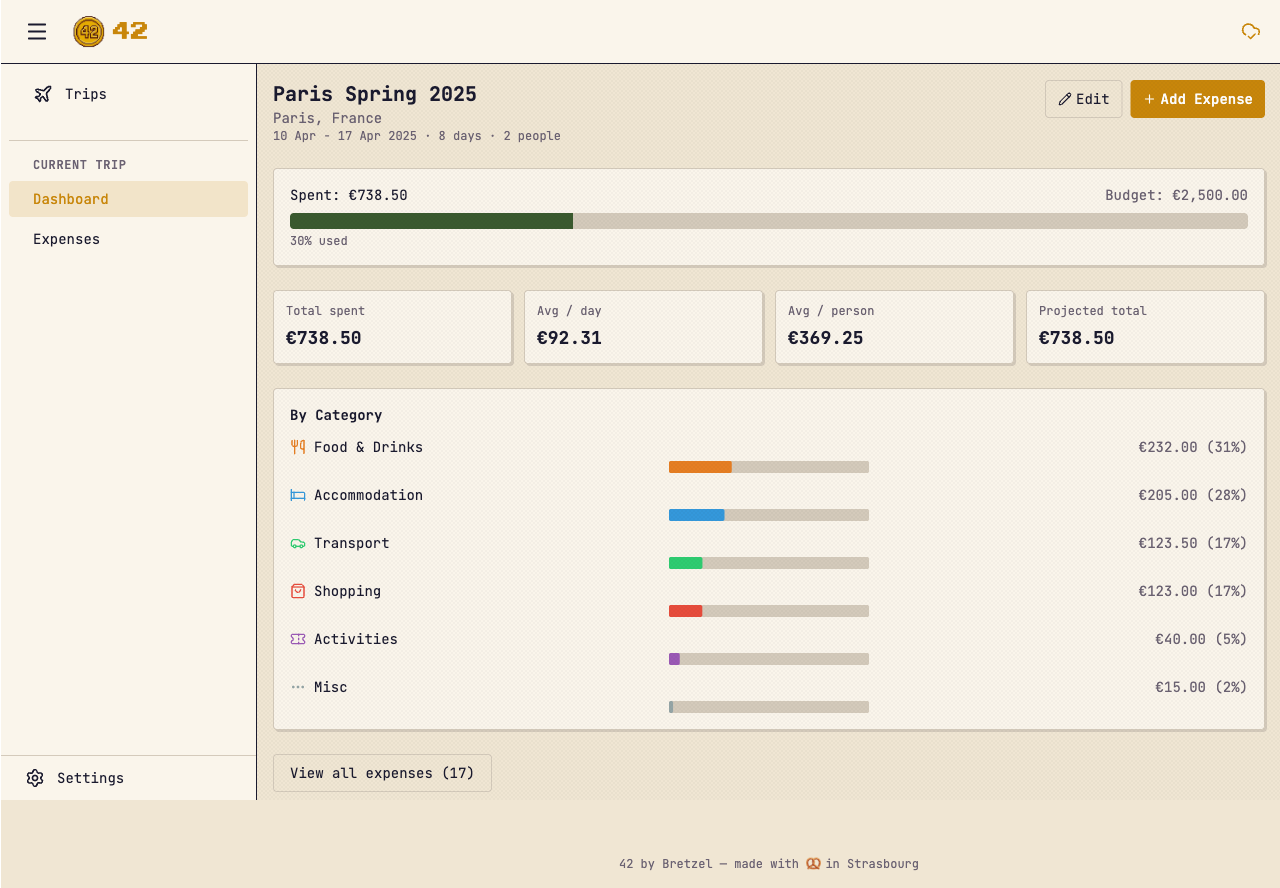
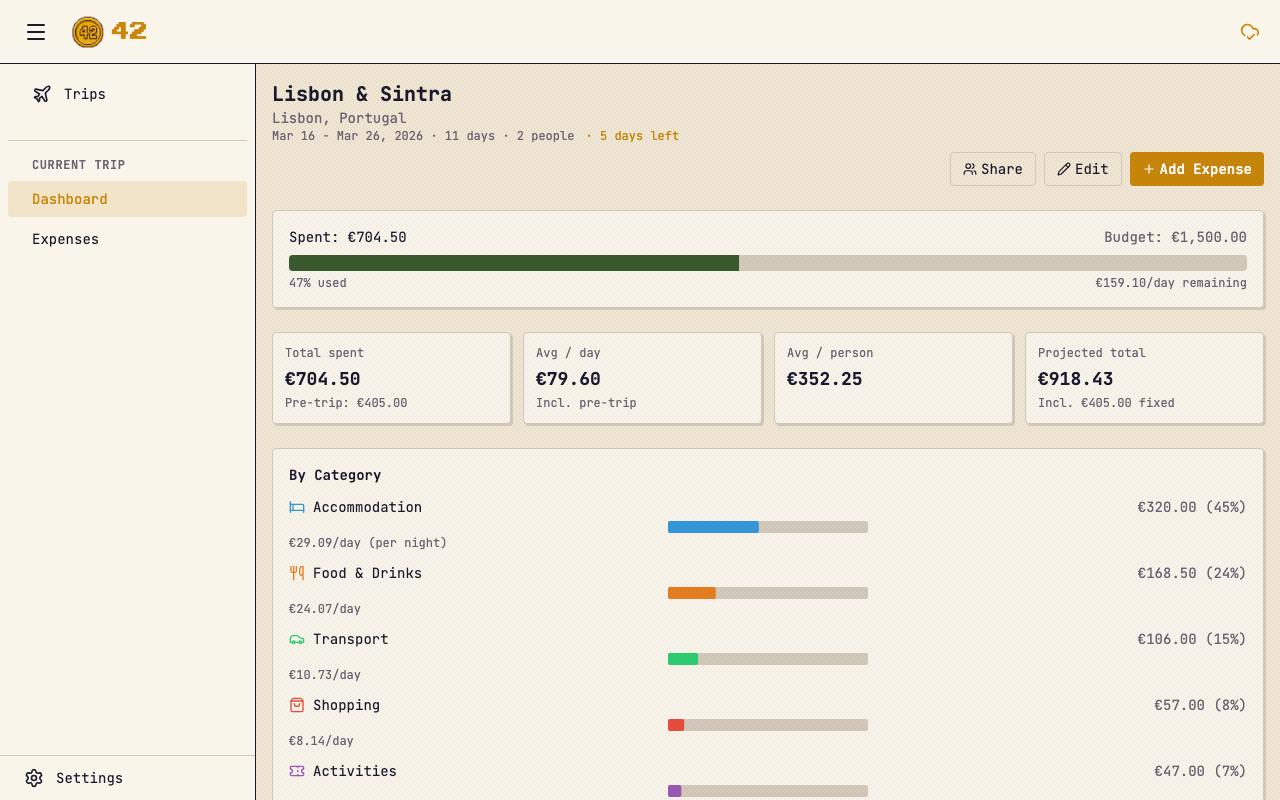
feat: automate landing page screenshot generation
Add Playwright-based screenshot automation that seeds demo trip data
(Lisbon & Sintra ongoing trip, Tokyo future trip, Amsterdam past trip)
and captures 6 screenshots (3 desktop + 3 mobile).

Includes workflow_dispatch GitHub Actions workflow for one-click
regeneration.

diff --git a/scripts/screenshots/seed.ts b/scripts/screenshots/seed.ts
@@ -1,0 +1,143 @@
+import type { Page } from '@playwright/test';
+import { BASE_URL, ADMIN } from './constants';
+
+type HttpMethod = 'post' | 'put' | 'get' | 'delete';
+
+async function api(page: Page, method: HttpMethod, path: string, data?: unknown) {
+	const res = await page.request[method](
+		`${BASE_URL}${path}`,
+		data !== undefined ? { data } : undefined
+	);
+	if (!res.ok()) {
+		throw new Error(`${method.toUpperCase()} ${path} failed: ${res.status()} ${await res.text()}`);
+	}
+	const text = await res.text();
+	return text ? JSON.parse(text) : {};
+}
+
+/** Convert euros to cents */
+function eur(amount: number): number {
+	return Math.round(amount * 100);
+}
+
+export async function seed(page: Page): Promise<{ mainTripId: string }> {
+	// 1. Setup admin
+	await api(page, 'post', '/api/auth/setup', {
+		email: ADMIN.email,
+		displayName: ADMIN.displayName,
+		password: ADMIN.password
+	});
+	console.log('  admin created');
+
+	// 2. Create trips
+	// Trip dates designed so "Lisbon" is ongoing with good dashboard data
+	const today = new Date();
+	const startedDaysAgo = 5;
+	const tripDuration = 10;
+	const lisbonStart = new Date(today);
+	lisbonStart.setDate(today.getDate() - startedDaysAgo);
+	const lisbonEnd = new Date(lisbonStart);
+	lisbonEnd.setDate(lisbonStart.getDate() + tripDuration);
+
+	const tokyoStart = new Date(today);
+	tokyoStart.setDate(today.getDate() + 30);
+	const tokyoEnd = new Date(tokyoStart);
+	tokyoEnd.setDate(tokyoStart.getDate() + 14);
+
+	const fmt = (d: Date) => d.toISOString().split('T')[0];
+
+	// Completed trip (simple, no budget)
+	await api(page, 'post', '/api/trips', {
+		name: 'Amsterdam Weekend',
+		destination: 'Amsterdam, Netherlands',
+		startDate: '2025-11-15',
+		endDate: '2025-11-18',
+		numberOfPeople: 2,
+		totalBudget: null,
+		homeCurrency: 'EUR'
+	});
+	console.log('  trip created: Amsterdam Weekend');
+
+	// Future trip
+	const tokyo = await api(page, 'post', '/api/trips', {
+		name: 'Tokyo Adventure',
+		destination: 'Tokyo, Japan',
+		startDate: fmt(tokyoStart),
+		endDate: fmt(tokyoEnd),
+		numberOfPeople: 2,
+		totalBudget: eur(4000),
+		homeCurrency: 'EUR'
+	});
+	console.log('  trip created: Tokyo Adventure');
+
+	// Main trip (ongoing, with budget) — this is the dashboard hero
+	const lisbon = await api(page, 'post', '/api/trips', {
+		name: 'Lisbon & Sintra',
+		destination: 'Lisbon, Portugal',
+		startDate: fmt(lisbonStart),
+		endDate: fmt(lisbonEnd),
+		numberOfPeople: 2,
+		totalBudget: eur(1500),
+		homeCurrency: 'EUR'
+	});
+	console.log('  trip created: Lisbon & Sintra');
+
+	// 3. Set exchange rates for Tokyo trip (JPY)
+	await api(page, 'put', `/api/trips/${tokyo.id}/currencies`, [
+		{ currencyCode: 'JPY', exchangeRate: '0.006' }
+	]);
+
+	// 4. Add expenses to Lisbon trip (main dashboard)
+	const lisbonExpenses = [
+		// Pre-trip booking
+		{ amount: eur(85), currency: 'EUR', exchangeRate: '1', categoryId: 'transport', date: fmt(new Date(lisbonStart.getTime() - 14 * 86400000)), note: 'Ryanair flights' },
+		{ amount: eur(320), currency: 'EUR', exchangeRate: '1', categoryId: 'accommodation', date: fmt(new Date(lisbonStart.getTime() - 7 * 86400000)), note: 'Airbnb Alfama 10 nights' },
+		// Day 1
+		{ amount: eur(12.5), currency: 'EUR', exchangeRate: '1', categoryId: 'food', date: fmt(lisbonStart), note: 'Pastéis de Belém' },
+		{ amount: eur(28), currency: 'EUR', exchangeRate: '1', categoryId: 'food', date: fmt(lisbonStart), note: 'Dinner at Time Out Market' },
+		{ amount: eur(7), currency: 'EUR', exchangeRate: '1', categoryId: 'transport', date: fmt(lisbonStart), note: 'Tram 28 day pass' },
+		// Day 2
+		{ amount: eur(15), currency: 'EUR', exchangeRate: '1', categoryId: 'activities', date: fmt(new Date(lisbonStart.getTime() + 86400000)), note: 'Jerónimos Monastery' },
+		{ amount: eur(35), currency: 'EUR', exchangeRate: '1', categoryId: 'food', date: fmt(new Date(lisbonStart.getTime() + 86400000)), note: 'Seafood lunch Cervejaria Ramiro' },
+		{ amount: eur(22), currency: 'EUR', exchangeRate: '1', categoryId: 'shopping', date: fmt(new Date(lisbonStart.getTime() + 86400000)), note: 'Azulejo tiles souvenir' },
+		// Day 3
+		{ amount: eur(14), currency: 'EUR', exchangeRate: '1', categoryId: 'transport', date: fmt(new Date(lisbonStart.getTime() + 2 * 86400000)), note: 'Train to Sintra' },
+		{ amount: eur(20), currency: 'EUR', exchangeRate: '1', categoryId: 'activities', date: fmt(new Date(lisbonStart.getTime() + 2 * 86400000)), note: 'Pena Palace ticket' },
+		{ amount: eur(18), currency: 'EUR', exchangeRate: '1', categoryId: 'food', date: fmt(new Date(lisbonStart.getTime() + 2 * 86400000)), note: 'Lunch in Sintra' },
+		// Day 4
+		{ amount: eur(42), currency: 'EUR', exchangeRate: '1', categoryId: 'food', date: fmt(new Date(lisbonStart.getTime() + 3 * 86400000)), note: 'Dinner Belcanto' },
+		{ amount: eur(8), currency: 'EUR', exchangeRate: '1', categoryId: 'food', date: fmt(new Date(lisbonStart.getTime() + 3 * 86400000)), note: 'Ginjinha shots' },
+		{ amount: eur(35), currency: 'EUR', exchangeRate: '1', categoryId: 'shopping', date: fmt(new Date(lisbonStart.getTime() + 3 * 86400000)), note: 'Cork bag from LX Factory' },
+		// Day 5
+		{ amount: eur(12), currency: 'EUR', exchangeRate: '1', categoryId: 'activities', date: fmt(new Date(lisbonStart.getTime() + 4 * 86400000)), note: 'Fado show cover' },
+		{ amount: eur(25), currency: 'EUR', exchangeRate: '1', categoryId: 'food', date: fmt(new Date(lisbonStart.getTime() + 4 * 86400000)), note: 'Dinner at fado house' },
+		{ amount: eur(6), currency: 'EUR', exchangeRate: '1', categoryId: 'misc', date: fmt(new Date(lisbonStart.getTime() + 4 * 86400000)), note: 'Laundry' },
+	];
+
+	for (const expense of lisbonExpenses) {
+		await api(page, 'post', `/api/trips/${lisbon.id}/expenses`, expense);
+	}
+	console.log(`  ${lisbonExpenses.length} expenses added to Lisbon & Sintra`);
+
+	// 5. Add a few expenses to Tokyo (pre-trip bookings)
+	const tokyoExpenses = [
+		{ amount: eur(450), currency: 'EUR', exchangeRate: '1', categoryId: 'transport', date: fmt(new Date(tokyoStart.getTime() - 30 * 86400000)), note: 'ANA flights' },
+		{ amount: 38000, currency: 'JPY', exchangeRate: '0.006', categoryId: 'accommodation', date: fmt(new Date(tokyoStart.getTime() - 14 * 86400000)), note: 'Hotel Shinjuku 14 nights' },
+	];
+
+	for (const expense of tokyoExpenses) {
+		await api(page, 'post', `/api/trips/${tokyo.id}/expenses`, expense);
+	}
+	console.log('  2 expenses added to Tokyo Adventure');
+
+	return { mainTripId: lisbon.id };
+}
+
+export async function login(page: Page): Promise<void> {
+	await page.goto(`${BASE_URL}/login`);
+	await page.getByTestId('email-input').fill(ADMIN.email);
+	await page.getByTestId('password-input').fill(ADMIN.password);
+	await page.getByTestId('login-btn').click();
+	await page.waitForURL('**/');
+	await page.waitForLoadState('networkidle');
+}

diff --git a/scripts/screenshots.ts b/scripts/screenshots.ts
@@ -1,0 +1,107 @@
+import { chromium } from '@playwright/test';
+import { spawn, type ChildProcess } from 'child_process';
+import { existsSync, unlinkSync, mkdirSync } from 'fs';
+import { seed, login } from './screenshots/seed';
+import { captureDesktop, captureMobile } from './screenshots/capture';
+import {
+	BASE_URL,
+	SCREENSHOT_DB,
+	DESKTOP_VIEWPORT,
+	MOBILE_VIEWPORT,
+	OUTPUT_DIR
+} from './screenshots/constants';
+
+function cleanDatabase(): void {
+	for (const ext of ['', '-journal', '-wal', '-shm']) {
+		const path = `${SCREENSHOT_DB}${ext}`;
+		if (existsSync(path)) {
+			unlinkSync(path);
+			console.log(`  deleted ${path}`);
+		}
+	}
+}
+
+async function waitForServer(url: string, timeoutMs: number): Promise<void> {
+	const start = Date.now();
+	while (Date.now() - start < timeoutMs) {
+		try {
+			const res = await fetch(url);
+			if (res.ok || res.status === 302) return;
+		} catch {
+			// Server not ready yet
+		}
+		await new Promise((r) => setTimeout(r, 500));
+	}
+	throw new Error(`Server not reachable at ${url} after ${timeoutMs}ms`);
+}
+
+function startServer(): Promise<ChildProcess> {
+	return new Promise((resolve, reject) => {
+		const dir = SCREENSHOT_DB.substring(0, SCREENSHOT_DB.lastIndexOf('/'));
+		if (!existsSync(dir)) mkdirSync(dir, { recursive: true });
+
+		const server = spawn('pnpm', ['preview', '--port', '4173'], {
+			env: { ...process.env, DATABASE_URL: SCREENSHOT_DB, NODE_ENV: 'production' },
+			stdio: 'pipe'
+		});
+
+		server.on('error', reject);
+		server.on('exit', (code) => {
+			if (code !== null && code !== 0) reject(new Error(`Server exited with code ${code}`));
+		});
+
+		waitForServer(BASE_URL, 60_000)
+			.then(() => resolve(server))
+			.catch(reject);
+	});
+}
+
+async function main(): Promise<void> {
+	console.log('Screenshot automation starting...\n');
+
+	// 1. Clean DB
+	console.log('Cleaning database...');
+	cleanDatabase();
+
+	// 2. Ensure output dir exists
+	if (!existsSync(OUTPUT_DIR)) mkdirSync(OUTPUT_DIR, { recursive: true });
+
+	// 3. Start preview server
+	console.log('Starting preview server...');
+	const server = await startServer();
+	console.log('Server ready.\n');
+
+	const browser = await chromium.launch();
+
+	try {
+		// 4. Seed data (in desktop context)
+		console.log('Seeding data...');
+		const desktopContext = await browser.newContext({ viewport: DESKTOP_VIEWPORT });
+		const desktopPage = await desktopContext.newPage();
+		const { mainTripId } = await seed(desktopPage);
+		console.log('Seed complete.\n');
+
+		// 5. Desktop screenshots
+		await captureDesktop(desktopPage, mainTripId);
+		await desktopContext.close();
+		console.log('');
+
+		// 6. Mobile screenshots (fresh context with mobile viewport)
+		const mobileContext = await browser.newContext({ viewport: MOBILE_VIEWPORT });
+		const mobilePage = await mobileContext.newPage();
+		await login(mobilePage);
+		await captureMobile(mobilePage, mainTripId);
+		await mobileContext.close();
+
+		console.log('\nAll screenshots captured successfully!');
+	} finally {
+		await browser.close();
+		server.kill('SIGTERM');
+		process.exit(0);
+	}
+}
+
+main().catch((err) => {
+	console.error('Screenshot automation failed:', err);
+	process.exit(1);
+});

diff --git a/scripts/screenshots/capture.ts b/scripts/screenshots/capture.ts
@@ -1,0 +1,53 @@
+import type { Page } from '@playwright/test';
+import { join } from 'path';
+import { BASE_URL, OUTPUT_DIR } from './constants';
+
+async function screenshot(page: Page, name: string): Promise<void> {
+	await page.screenshot({ path: join(OUTPUT_DIR, name), type: 'png' });
+	console.log(`  captured ${name}`);
+}
+
+async function waitForApp(page: Page): Promise<void> {
+	await page.waitForLoadState('networkidle');
+	await page.waitForTimeout(300);
+}
+
+export async function captureDesktop(page: Page, mainTripId: string): Promise<void> {
+	await page.emulateMedia({ reducedMotion: 'reduce' });
+	console.log('Capturing desktop screenshots...');
+
+	// D1: Trip list
+	await page.goto(BASE_URL);
+	await waitForApp(page);
+	await screenshot(page, 'screenshot-trips.png');
+
+	// D2: Trip dashboard (Lisbon — ongoing with budget + expenses)
+	await page.goto(`${BASE_URL}/trips/${mainTripId}`);
+	await waitForApp(page);
+	await screenshot(page, 'screenshot-dashboard.png');
+
+	// D3: Expense list
+	await page.goto(`${BASE_URL}/trips/${mainTripId}/expenses`);
+	await waitForApp(page);
+	await screenshot(page, 'screenshot-expenses.png');
+}
+
+export async function captureMobile(page: Page, mainTripId: string): Promise<void> {
+	await page.emulateMedia({ reducedMotion: 'reduce' });
+	console.log('Capturing mobile screenshots...');
+
+	// M1: Mobile trip list
+	await page.goto(BASE_URL);
+	await waitForApp(page);
+	await screenshot(page, 'screenshot-mobile-trips.png');
+
+	// M2: Mobile dashboard
+	await page.goto(`${BASE_URL}/trips/${mainTripId}`);
+	await waitForApp(page);
+	await screenshot(page, 'screenshot-mobile-dashboard.png');
+
+	// M3: Mobile expense list
+	await page.goto(`${BASE_URL}/trips/${mainTripId}/expenses`);
+	await waitForApp(page);
+	await screenshot(page, 'screenshot-mobile-expenses.png');
+}

diff --git a/scripts/screenshots/constants.ts b/scripts/screenshots/constants.ts
@@ -1,0 +1,12 @@
+export const BASE_URL = 'http://localhost:4173';
+export const SCREENSHOT_DB = './data/screenshots.db';
+export const OUTPUT_DIR = 'website/assets';
+
+export const DESKTOP_VIEWPORT = { width: 1280, height: 800 };
+export const MOBILE_VIEWPORT = { width: 390, height: 844 };
+
+export const ADMIN = {
+	email: 'admin@bretzel.app',
+	displayName: 'Bretzel Admin',
+	password: 'bretzel2026!'
+};
